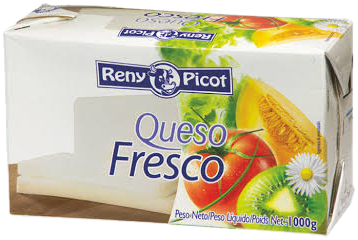
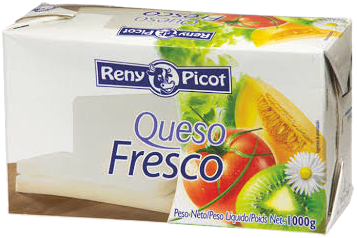
Refrigerados: recorte más limpio de la foto del queso fresco Reny Picot, en la ficha y en el bodegón
Claude-Session: https://claude.ai/code/session_01TfVuY2sTVvMwp4RqzYabW2

diff --git a/refrigerados-products.js b/refrigerados-products.js
@@ -94,7 +94,7 @@
     {group:'Salchichas',brand:'Campofrío',name:'Salchichas Frankfurt · pack de 4 × 140 g',blk:'salchichas',uso:'',cod:'26084',image:'assets/refrigerados/extra/campofrio_salchichas-frankfurt-4x140g.png',w:720,h:720,alt:'Salchichas Frankfurt La Original de Campofrío, pack de 4 sobres de 140 g'},
     {group:'Salchichas',brand:'El Pozo',name:'Salchichas cocktail · 1 kg',blk:'salchichas,pozo',uso:'h',cod:'20120',peek:'assets/refrigerados/extra/elpozo_salchichas-cocktail-1kg.png',pw:634,ph:625,peekAlt:'Salchichas cocktail de ElPozo, bolsa de 1 kg (100 unidades)'},
     {group:'Salchichas',brand:'Oscar Mayer',name:'Salchichas Jumbo · 350 g',blk:'salchichas',uso:'',cod:'26121',image:'assets/refrigerados/extra/oscar-mayer_salchichas-jumbo-y-bacon-en-lonchas.png',w:720,h:720,alt:'Salchichas Jumbo Oscar Mayer'},
-    {group:'Quesos',brand:'Reny Picot',name:'Queso de Burgos · brik de 1 kg',blk:'quesos',uso:'',cod:'17050',image:'assets/refrigerados/extra/reny-picot_queso-fresco-1kg.png',w:358,h:240,alt:'Queso fresco Reny Picot, brik de 1.000 g'},
+    {group:'Quesos',brand:'Reny Picot',name:'Queso de Burgos · brik de 1 kg',blk:'quesos',uso:'',cod:'17050',image:'assets/refrigerados/extra/reny-picot_queso-fresco-1kg.png',w:357,h:238,alt:'Queso fresco Reny Picot, brik de 1.000 g'},
     {group:'Quesos',brand:'Reny Picot',name:'Queso de Burgos · 4 × 62,5 g',blk:'quesos',uso:'',cod:'17002'},
     {group:'Quesos',brand:'Reny Picot',name:'Queso en lonchas · 8 unidades',blk:'quesos',uso:'',cod:'17080',image:'assets/refrigerados/extra/reny-picot_queso-en-lonchas.png',w:720,h:720,alt:'Queso en lonchas Reny Picot'},
     {group:'Quesos',brand:'Reny Picot',name:'Emmental rallado · 60 g',blk:'quesos',uso:'',cod:'17005',image:'assets/refrigerados/extra/reny-picot_quesos-rallados.png',w:720,h:720,alt:'Quesos rallados Reny Picot'},

diff --git a/refrigerados.html b/refrigerados.html
@@ -82,7 +82,7 @@
   </main>
   <footer class="pw-footer"><span>Fotografías de producto: Reny Picot, Pascual, Rogusa y Campofrío</span><a href="https://www.facebook.com/share/1LfPCX2kSw/" target="_blank" rel="noopener">Facebook</a><a href="https://www.instagram.com/distrvalentinmartin/" target="_blank" rel="noopener">Instagram</a><a href="aviso-legal.html">Aviso legal</a><a href="privacidad.html">Política de privacidad</a><a href="index.html#inicio">Volver a inicio ↑</a></footer>
   <script src="precios.js?v=e91f9a24" defer></script>
-  <script src="refrigerados-products.js?v=0b4da8d6" defer></script>
+  <script src="refrigerados-products.js?v=209935ac" defer></script>
 <script src="site-header.js?v=9aa16ac1" defer></script>
 <script src="cookies.js?v=a255d7c1" defer></script>
 <script src="estadisticas.js?v=30c3e111" defer></script>
